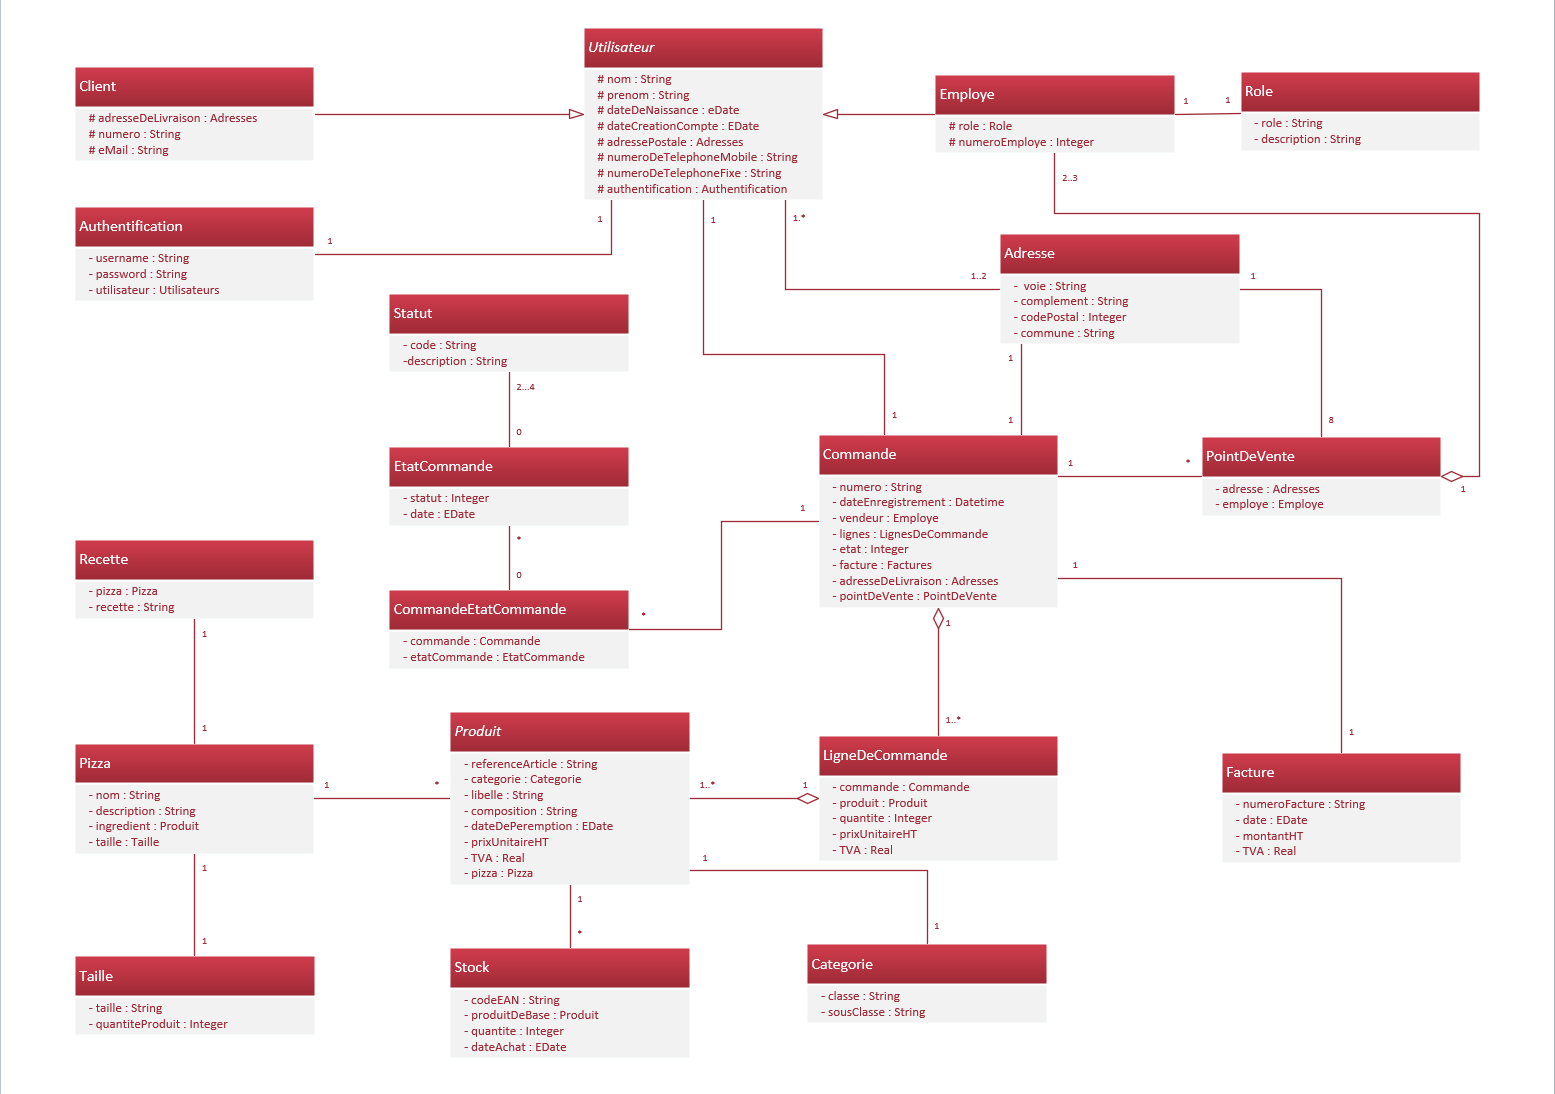
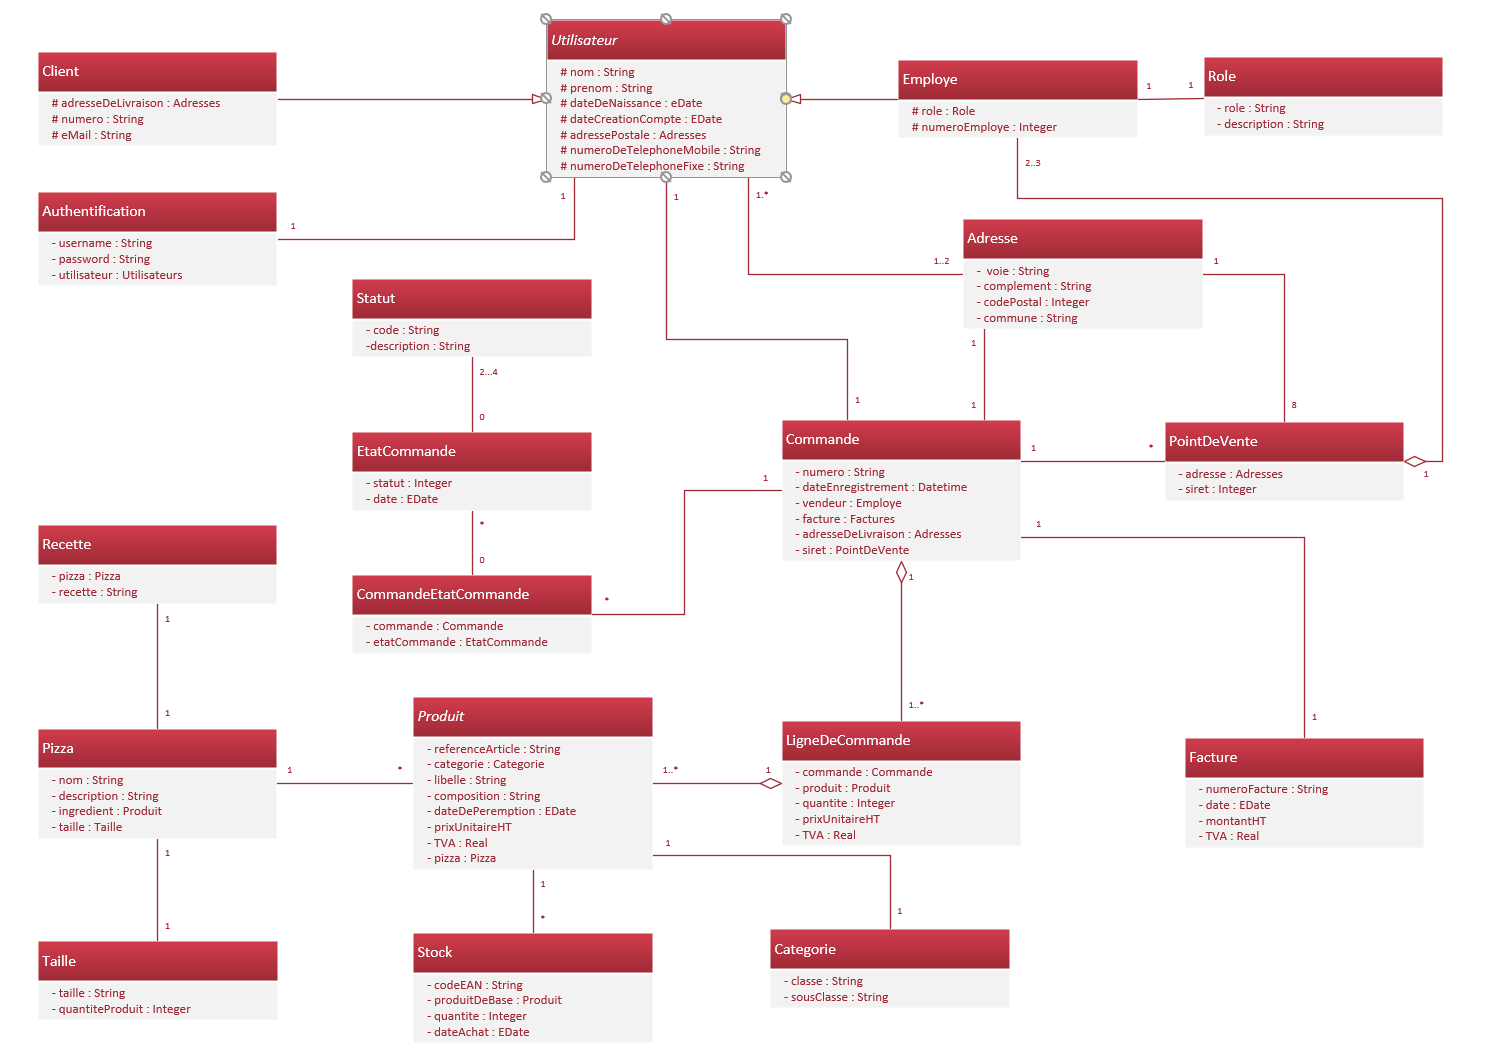
odification du README GitHub et ajout des modifications dans le diagramme de classe

diff --git a/eclipse/src/commande/Facture.java b/eclipse/src/commande/Facture.java
@@ -5,14 +5,14 @@ import java.text.DateFormat;
 public class Facture {
 	
 	private String numero;
-	private DateFormat dateFacture;
+	private DateFormat date;
 	private Double montant;
 	private Double TVA;
 	
 	public Facture(String numero, DateFormat dateFacture, Double montant, Double tVA) {
 		super();
 		this.numero = numero;
-		this.dateFacture = dateFacture;
+		this.date = dateFacture;
 		this.montant = montant;
 		TVA = tVA;
 	}
@@ -26,11 +26,11 @@ public class Facture {
 	}
 
 	public DateFormat getDateFacture() {
-		return dateFacture;
+		return date;
 	}
 
 	public void setDateFacture(DateFormat dateFacture) {
-		this.dateFacture = dateFacture;
+		this.date = dateFacture;
 	}
 
 	public Double getMontant() {
@@ -51,7 +51,7 @@ public class Facture {
 
 	@Override
 	public String toString() {
-		return "Facture [numero=" + numero + ", dateFacture=" + dateFacture + ", montant=" + montant + ", TVA=" + TVA
+		return "Facture [numero=" + numero + ", dateFacture=" + date + ", montant=" + montant + ", TVA=" + TVA
 				+ "]";
 	}
 	

diff --git a/README.md b/README.md
@@ -4,9 +4,9 @@ ____
 
 ## Diagramme de Classe
 
-1. La première étape consiste à mettre en forme les classes et les attributs. A l'aide d'éclipse, je développe un système cohérent pour la gestion de la pizzeria.  
+1. La première étape consiste à mettre en forme les classes et les attributs. A l'aide d'éclipse, je développe un système cohérent pour la gestion du groupe "OC Pizza" que je code à l'aide du langage JAVA.  
   &nbsp;
-2. Sur éclipse je télécharge et installe le plug-in "ObectAid" qui sert à générer diagramme de classe à partir d'un projet existant :  
+2. Sur éclipse je télécharge et installe le plug-in "ObectAid" qui va me servir à générer un diagramme de classe à partir de mon projet :  
 	- Etape 1 :  
 	dans le menu éclipse, je vais dans l'onglet 'Help' et sélectionne 'Install New Software'  
   &nbsp;
@@ -39,9 +39,10 @@ Je donne un nom à mon Diagramme et je fais 'FINISH'.
   &nbsp;
 4. Une fois dans le fichier du diagramme, je déplace les classes que je souhaite mettre dans celui-ci. Le diagramme est créé.
   &nbsp;
-5. Je créé sur le logiciel "Visio" un diagramme à partir de celui d'Eclipse. Celui-ci est plus complet et plus présentable.
-![photo diagramme de classe](DiagrammeDeClasse.png "diagramme de classe")  
- 	&nbsp;
+5. Je créé sur le logiciel "Visio" un diagramme à partir de celui généré sur Eclipse. Celui-ci est plus complet et plus présentable.  
+	&nbsp;  
+![DiagrammeDeClasse](https://user-images.githubusercontent.com/45402044/71312030-4d234f80-241e-11ea-8179-1b0b5715fbe0.png)  
+	&nbsp;  
 
 
 ## Modèle Physique de Données
@@ -50,6 +51,31 @@ Je donne un nom à mon Diagramme et je fais 'FINISH'.
 	 &nbsp;
 2. J'ajoute ensuite les différentes clés primaires et étrangères de chaque table.  
 	&nbsp;
-3. J'obtiens le résultat suivant :
-![photo Modèle Physique de Données](MPD.png "Modèle Physique de Données")
+3. J'obtiens le résultat suivant :  
+![MPD](https://user-images.githubusercontent.com/45402044/71312061-b30fd700-241e-11ea-879c-be9b9f7eeab0.png)
+	&nbsp;  
 
+
+## Création de la Base de Données
+1. Dans "Power Architect", je génère la base de données à partir de mon modèle physique de données, en cliquant sur l'icone SQL situé en dessous du menu 'enterprise'.  
+	 &nbsp;  
+![créationBaseDeDonnées1](https://user-images.githubusercontent.com/45402044/71312071-e05c8500-241e-11ea-9cd2-5023b9e2a843.png)  
+	 &nbsp;  
+2. Ensuite je copie le code crée en SQL, à l'aide du bouton "Copy".  
+	&nbsp;  
+![créationBaseDeDonnées2](https://user-images.githubusercontent.com/45402044/71312081-f66a4580-241e-11ea-8c24-b6d8b189892e.png)  
+	&nbsp;  
+3. Je me connecte dans "pgAdmin4" et je crée une nouvelle base de données.
+	&nbsp;  
+![créationBaseDeDonnées3](https://user-images.githubusercontent.com/45402044/71312092-139f1400-241f-11ea-8768-1e6afa7da3c1.png)  
+	&nbsp;  
+4. Je rentre le nom de ma base de données, je l'enregistre, et ma base de données apparait dans le navigateur.  
+	&nbsp;  
+![créationBaseDeDonnées4](https://user-images.githubusercontent.com/45402044/71312096-23b6f380-241f-11ea-9750-d0d723fcc529.png)  
+	&nbsp;  
+5. Je clique sur l'icone éclair(1), la partie 'Editeur de requêtes' s'affiche. Je colle le code crée en SQL sur "Power Architect" dans cette partie et valide à l'aide de l'icone éclaire(2). Les tables du groupe "OC Pizza" sont maintenant dans la base données.
+	&nbsp;  
+	
+![créationBaseDeDonnées5](https://user-images.githubusercontent.com/45402044/71312107-37faf080-241f-11ea-8cb4-7f3734d1d59e.png)  
+  	&nbsp;  
+ 

diff --git a/eclipse/doc/README.md b/eclipse/doc/README.md
@@ -78,3 +78,4 @@ Je donne un nom à mon Diagramme et je fais 'FINISH'.
 	
 ![photo création de la base de données 5](créationBaseDeDonnées5.png "création de la base de données 5")  
 	&nbsp;  
+  
